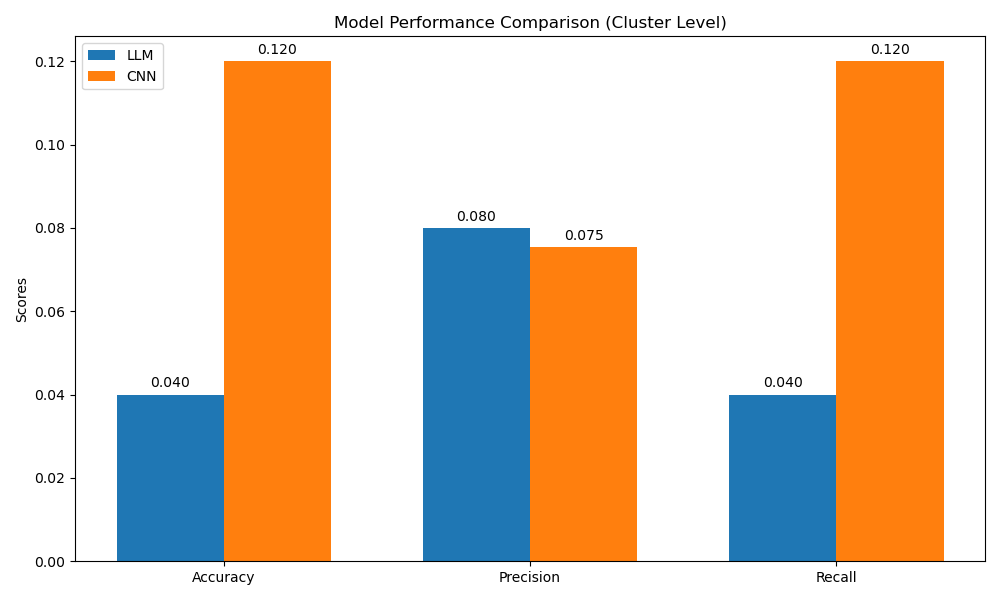
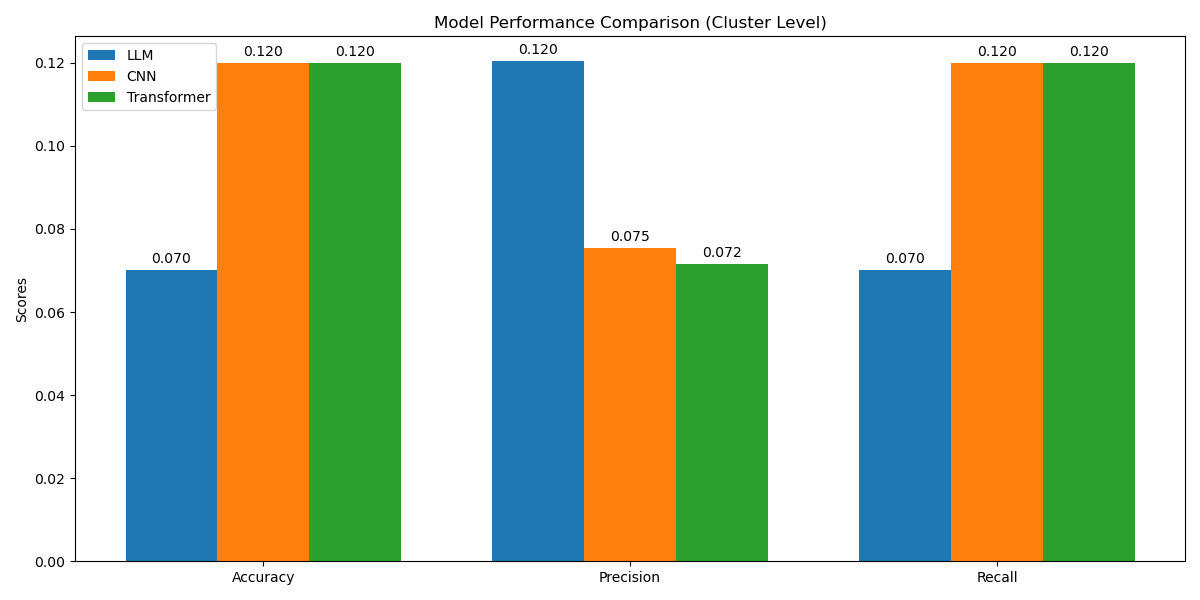
Comparison updated

diff --git a/goemotions_model_comparison.py b/goemotions_model_comparison.py
@@ -232,6 +232,7 @@ def map_cluster_to_sentiment(cluster):
 
 # Load the Keras model
 model = keras.models.load_model('emotion_model_conv_advanced.keras', compile=False)
+transformer_model = keras.models.load_model('emotion_model_transformer.keras', compile=False)
 
 # Load the DataFrame
 goemotions_valid_df = pd.read_csv("emotion_testing_results.csv")
@@ -243,14 +244,17 @@ tokenizer = Tokenizer(num_words=max_words, oov_token="<unk>")
 tokenizer.fit_on_texts(goemotions_valid_df['texts'])
 
 # Create cnn_prediction column using the model's predictions
-def predict_emotion(text):
+def predict_emotion(text, model_type='cnn'):
     # Preprocess the text
     processed_text = preprocess_text(text)
     # Tokenize and pad
     sequence = tokenizer.texts_to_sequences([processed_text])
     padded_sequence = pad_sequences(sequence, maxlen=max_len, padding='post', truncating='post')
     # Get prediction
-    prediction = model.predict(padded_sequence, verbose=0)[0]
+    if model_type == 'cnn':
+        prediction = model.predict(padded_sequence, verbose=0)[0]
+    else:  # transformer
+        prediction = transformer_model.predict(padded_sequence, verbose=0)[0]
     # Get the index of the highest probability
     predicted_index = np.argmax(prediction)
     # Map index to emotion label
@@ -260,15 +264,18 @@ def predict_emotion(text):
                      'pride', 'realization', 'relief', 'remorse', 'sadness', 'surprise', 'neutral']
     return emotion_labels[predicted_index]
 
-# Apply prediction function to create cnn_prediction column
-goemotions_valid_df['cnn_prediction'] = goemotions_valid_df['texts'].apply(predict_emotion)
+# Apply prediction function to create prediction columns
+goemotions_valid_df['cnn_prediction'] = goemotions_valid_df['texts'].apply(lambda x: predict_emotion(x, 'cnn'))
+goemotions_valid_df['transformer_prediction'] = goemotions_valid_df['texts'].apply(lambda x: predict_emotion(x, 'transformer'))
 
-# Create cnn_cluster column by mapping cnn_prediction to its cluster
+# Create cluster columns by mapping predictions to their clusters
 goemotions_valid_df['cnn_cluster'] = goemotions_valid_df['cnn_prediction'].apply(map_emotion_to_cluster)
+goemotions_valid_df['transformer_cluster'] = goemotions_valid_df['transformer_prediction'].apply(map_emotion_to_cluster)
 
 # Print some statistics to verify
 print("\nSample rows with their emotions, clusters, and predictions:")
-print(goemotions_valid_df[['texts', 'true_emotion', 'true_cluster', 'llm_prediction', 'llm_cluster', 'cnn_prediction', 'cnn_cluster']].head(10))
+print(goemotions_valid_df[['texts', 'true_emotion', 'true_cluster', 'llm_prediction', 'llm_cluster', 
+                          'cnn_prediction', 'cnn_cluster', 'transformer_prediction', 'transformer_cluster']].head(10))
 
 # Store the updated DataFrame as a CSV
 goemotions_valid_df.to_csv('emotion_testing_results_updated.csv', index=False)
@@ -280,12 +287,14 @@ print("\nUpdated results saved to 'emotion_testing_results_updated.csv'")
 goemotions_valid_df['sentiment_true'] = goemotions_valid_df['true_cluster'].apply(map_cluster_to_sentiment)
 goemotions_valid_df['cnn_sentiment'] = goemotions_valid_df['cnn_cluster'].apply(map_cluster_to_sentiment)
 goemotions_valid_df['llm_sentiment'] = goemotions_valid_df['llm_cluster'].apply(map_cluster_to_sentiment)
+goemotions_valid_df['transformer_sentiment'] = goemotions_valid_df['transformer_cluster'].apply(map_cluster_to_sentiment)
 
 # Print sample rows to verify sentiment mappings
 print("\nSample rows with clusters and their mapped sentiments:")
 print(goemotions_valid_df[['true_cluster', 'sentiment_true', 
                           'cnn_cluster', 'cnn_sentiment',
-                          'llm_cluster', 'llm_sentiment']].head())
+                          'llm_cluster', 'llm_sentiment',
+                          'transformer_cluster', 'transformer_sentiment']].head())
 
 # Update the CSV with new sentiment columns
 goemotions_valid_df.to_csv('emotion_testing_results_updated.csv', index=False)
@@ -301,15 +310,18 @@ goemotions_valid_df = pd.read_csv('emotion_testing_results_updated.csv')
 print(goemotions_valid_df.head())
 print(goemotions_valid_df.info())
 
-# Calculate metrics for LLM predictions (cluster level)
+# Calculate metrics for all models (cluster level)
 llm_accuracy = accuracy_score(goemotions_valid_df['true_cluster'], goemotions_valid_df['llm_cluster'])
 llm_precision = precision_score(goemotions_valid_df['true_cluster'], goemotions_valid_df['llm_cluster'], average='weighted')
 llm_recall = recall_score(goemotions_valid_df['true_cluster'], goemotions_valid_df['llm_cluster'], average='weighted')
 
-# Calculate metrics for CNN predictions (cluster level)
 cnn_accuracy = accuracy_score(goemotions_valid_df['true_cluster'], goemotions_valid_df['cnn_cluster'])
 cnn_precision = precision_score(goemotions_valid_df['true_cluster'], goemotions_valid_df['cnn_cluster'], average='weighted')
 cnn_recall = recall_score(goemotions_valid_df['true_cluster'], goemotions_valid_df['cnn_cluster'], average='weighted')
+
+transformer_accuracy = accuracy_score(goemotions_valid_df['true_cluster'], goemotions_valid_df['transformer_cluster'])
+transformer_precision = precision_score(goemotions_valid_df['true_cluster'], goemotions_valid_df['transformer_cluster'], average='weighted')
+transformer_recall = recall_score(goemotions_valid_df['true_cluster'], goemotions_valid_df['transformer_cluster'], average='weighted')
 
 # Calculate metrics for sentiment level
 llm_sent_accuracy = accuracy_score(goemotions_valid_df['sentiment_true'], goemotions_valid_df['llm_sentiment'])
@@ -319,6 +331,10 @@ llm_sent_recall = recall_score(goemotions_valid_df['sentiment_true'], goemotions
 cnn_sent_accuracy = accuracy_score(goemotions_valid_df['sentiment_true'], goemotions_valid_df['cnn_sentiment'])
 cnn_sent_precision = precision_score(goemotions_valid_df['sentiment_true'], goemotions_valid_df['cnn_sentiment'], average='weighted')
 cnn_sent_recall = recall_score(goemotions_valid_df['sentiment_true'], goemotions_valid_df['cnn_sentiment'], average='weighted')
+
+transformer_sent_accuracy = accuracy_score(goemotions_valid_df['sentiment_true'], goemotions_valid_df['transformer_sentiment'])
+transformer_sent_precision = precision_score(goemotions_valid_df['sentiment_true'], goemotions_valid_df['transformer_sentiment'], average='weighted')
+transformer_sent_recall = recall_score(goemotions_valid_df['sentiment_true'], goemotions_valid_df['transformer_sentiment'], average='weighted')
 
 print("\nLLM Model Metrics (Cluster Level):")
 print(f"Accuracy: {llm_accuracy:.4f}")
@@ -330,6 +346,11 @@ print(f"Accuracy: {cnn_accuracy:.4f}")
 print(f"Precision: {cnn_precision:.4f}")
 print(f"Recall: {cnn_recall:.4f}")
 
+print("\nTransformer Model Metrics (Cluster Level):")
+print(f"Accuracy: {transformer_accuracy:.4f}")
+print(f"Precision: {transformer_precision:.4f}")
+print(f"Recall: {transformer_recall:.4f}")
+
 print("\nLLM Model Metrics (Sentiment Level):")
 print(f"Accuracy: {llm_sent_accuracy:.4f}")
 print(f"Precision: {llm_sent_precision:.4f}") 
@@ -340,6 +361,11 @@ print(f"Accuracy: {cnn_sent_accuracy:.4f}")
 print(f"Precision: {cnn_sent_precision:.4f}")
 print(f"Recall: {cnn_sent_recall:.4f}")
 
+print("\nTransformer Model Metrics (Sentiment Level):")
+print(f"Accuracy: {transformer_sent_accuracy:.4f}")
+print(f"Precision: {transformer_sent_precision:.4f}")
+print(f"Recall: {transformer_sent_recall:.4f}")
+
 # Generate classification reports
 print("\nLLM Classification Report (Cluster Level):")
 print(classification_report(goemotions_valid_df['true_cluster'], goemotions_valid_df['llm_cluster']))
@@ -347,20 +373,27 @@ print(classification_report(goemotions_valid_df['true_cluster'], goemotions_vali
 print("\nCNN Classification Report (Cluster Level):") 
 print(classification_report(goemotions_valid_df['true_cluster'], goemotions_valid_df['cnn_cluster']))
 
+print("\nTransformer Classification Report (Cluster Level):") 
+print(classification_report(goemotions_valid_df['true_cluster'], goemotions_valid_df['transformer_cluster']))
+
 print("\nLLM Classification Report (Sentiment Level):")
 print(classification_report(goemotions_valid_df['sentiment_true'], goemotions_valid_df['llm_sentiment']))
 
 print("\nCNN Classification Report (Sentiment Level):") 
 print(classification_report(goemotions_valid_df['sentiment_true'], goemotions_valid_df['cnn_sentiment']))
 
-# Create a function to generate comparison plots
-def create_comparison_plot(metrics, llm_scores, cnn_scores, title, filename):
-    x = np.arange(len(metrics))
-    width = 0.35
+print("\nTransformer Classification Report (Sentiment Level):") 
+print(classification_report(goemotions_valid_df['sentiment_true'], goemotions_valid_df['transformer_sentiment']))
 
-    fig, ax = plt.subplots(figsize=(10, 6))
-    rects1 = ax.bar(x - width/2, llm_scores, width, label='LLM')
-    rects2 = ax.bar(x + width/2, cnn_scores, width, label='CNN')
+# Create a function to generate comparison plots
+def create_comparison_plot(metrics, llm_scores, cnn_scores, transformer_scores, title, filename):
+    x = np.arange(len(metrics))
+    width = 0.25
+
+    fig, ax = plt.subplots(figsize=(12, 6))
+    rects1 = ax.bar(x - width, llm_scores, width, label='LLM')
+    rects2 = ax.bar(x, cnn_scores, width, label='CNN')
+    rects3 = ax.bar(x + width, transformer_scores, width, label='Transformer')
 
     ax.set_ylabel('Scores')
     ax.set_title(title)
@@ -379,6 +412,7 @@ def create_comparison_plot(metrics, llm_scores, cnn_scores, title, filename):
 
     autolabel(rects1)
     autolabel(rects2)
+    autolabel(rects3)
 
     plt.tight_layout()
     plt.savefig(filename)
@@ -388,13 +422,15 @@ def create_comparison_plot(metrics, llm_scores, cnn_scores, title, filename):
 metrics = ['Accuracy', 'Precision', 'Recall']
 llm_scores = [llm_accuracy, llm_precision, llm_recall]
 cnn_scores = [cnn_accuracy, cnn_precision, cnn_recall]
-create_comparison_plot(metrics, llm_scores, cnn_scores, 
+transformer_scores = [transformer_accuracy, transformer_precision, transformer_recall]
+create_comparison_plot(metrics, llm_scores, cnn_scores, transformer_scores,
                       'Model Performance Comparison (Cluster Level)', 
                       'model_comparison_cluster.png')
 
 # Create plots for sentiment level metrics
 llm_sent_scores = [llm_sent_accuracy, llm_sent_precision, llm_sent_recall]
 cnn_sent_scores = [cnn_sent_accuracy, cnn_sent_precision, cnn_sent_recall]
-create_comparison_plot(metrics, llm_sent_scores, cnn_sent_scores, 
+transformer_sent_scores = [transformer_sent_accuracy, transformer_sent_precision, transformer_sent_recall]
+create_comparison_plot(metrics, llm_sent_scores, cnn_sent_scores, transformer_sent_scores,
                       'Model Performance Comparison (Sentiment Level)', 
                       'model_comparison_sentiment.png')
